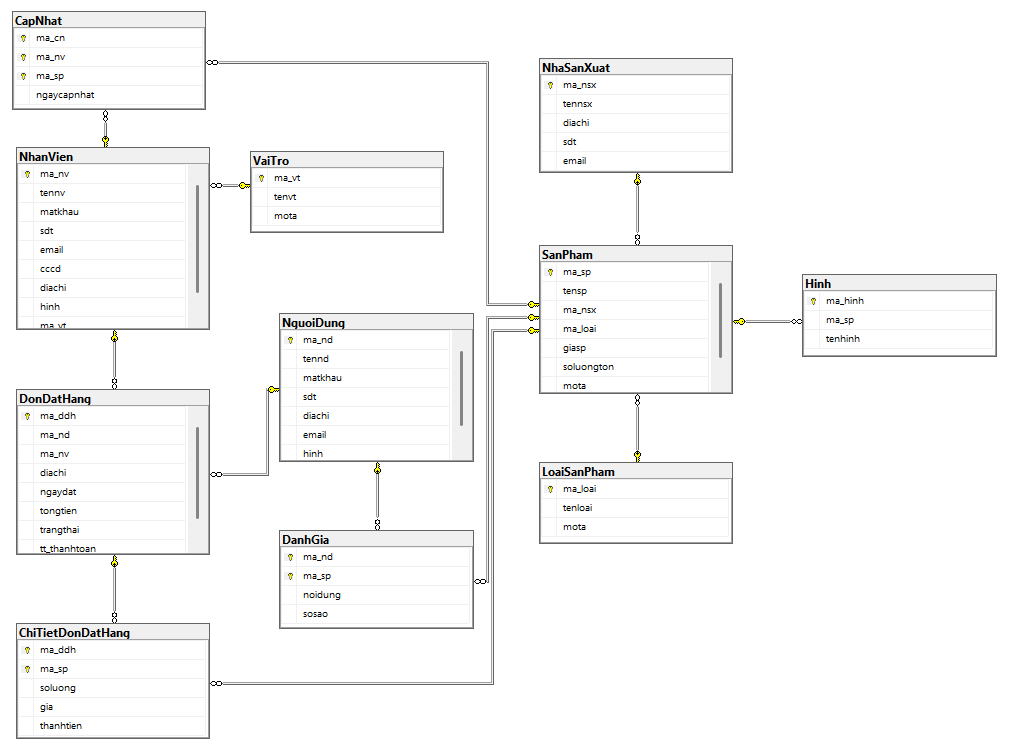
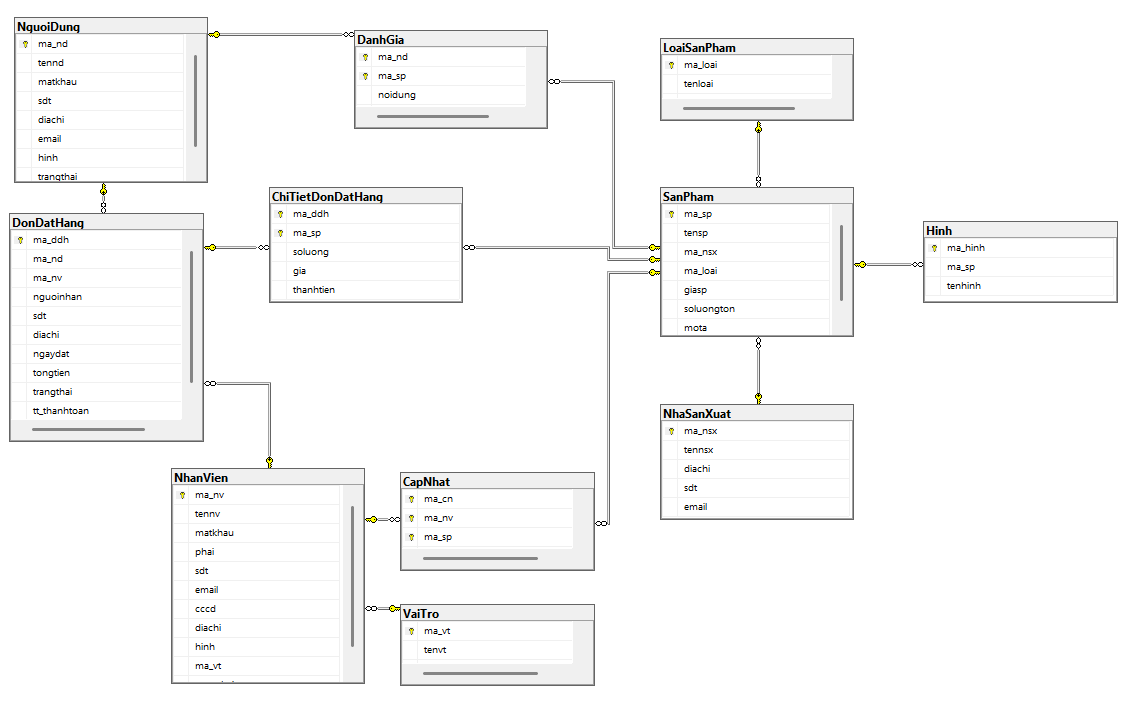
OK-3

diff --git a/WebApp_BanNhacCu/WebApp_BanNhacCu/Models/ZyuukiMusicStoreContext.cs b/WebApp_BanNhacCu/WebApp_BanNhacCu/Models/ZyuukiMusicStoreContext.cs
@@ -33,7 +33,7 @@ namespace WebApp_BanNhacCu.Models
             if (!optionsBuilder.IsConfigured)
             {
 #warning To protect potentially sensitive information in your connection string, you should move it out of source code. You can avoid scaffolding the connection string by using the Name= syntax to read it from configuration - see https://go.microsoft.com/fwlink/?linkid=2131148. For more guidance on storing connection strings, see http://go.microsoft.com/fwlink/?LinkId=723263.
-                optionsBuilder.UseSqlServer("Data Source=skill;Initial Catalog=ZyuukiMusicStore;Integrated Security=True;Encrypt=False");
+                optionsBuilder.UseSqlServer("Data Source=ZYUUKI\\SQLEXPRESS;Initial Catalog=ZyuukiMusicStore;Integrated Security=True;Encrypt=False");
             }
         }
 
@@ -145,7 +145,7 @@ namespace WebApp_BanNhacCu.Models
             modelBuilder.Entity<DonDatHang>(entity =>
             {
                 entity.HasKey(e => e.MaDdh)
-                    .HasName("PK__DonDatHa__057B0B6BFD39DF06");
+                    .HasName("PK__DonDatHa__057B0B6B3495A235");
 
                 entity.ToTable("DonDatHang");
 
@@ -167,6 +167,14 @@ namespace WebApp_BanNhacCu.Models
                     .HasColumnType("datetime")
                     .HasColumnName("ngaydat")
                     .HasDefaultValueSql("(getdate())");
+
+                entity.Property(e => e.Nguoinhan)
+                    .HasMaxLength(100)
+                    .HasColumnName("nguoinhan");
+
+                entity.Property(e => e.Sdt)
+                    .HasMaxLength(15)
+                    .HasColumnName("sdt");
 
                 entity.Property(e => e.Tongtien)
                     .HasColumnType("decimal(18, 2)")
@@ -196,7 +204,7 @@ namespace WebApp_BanNhacCu.Models
             modelBuilder.Entity<Hinh>(entity =>
             {
                 entity.HasKey(e => e.MaHinh)
-                    .HasName("PK__Hinh__78C576F0C8FE0F6A");
+                    .HasName("PK__Hinh__78C576F0AFFAD072");
 
                 entity.ToTable("Hinh");
 
@@ -221,7 +229,7 @@ namespace WebApp_BanNhacCu.Models
             modelBuilder.Entity<LoaiSanPham>(entity =>
             {
                 entity.HasKey(e => e.MaLoai)
-                    .HasName("PK__LoaiSanP__D9476E5766760CDE");
+                    .HasName("PK__LoaiSanP__D9476E57C5D6DC87");
 
                 entity.ToTable("LoaiSanPham");
 
@@ -243,11 +251,11 @@ namespace WebApp_BanNhacCu.Models
             modelBuilder.Entity<NguoiDung>(entity =>
             {
                 entity.HasKey(e => e.MaNd)
-                    .HasName("PK__NguoiDun__0FE15F4E9C582F9C");
+                    .HasName("PK__NguoiDun__0FE15F4E5AE05E3A");
 
                 entity.ToTable("NguoiDung");
 
-                entity.HasIndex(e => e.Email, "UQ__NguoiDun__AB6E616409D928B1")
+                entity.HasIndex(e => e.Email, "UQ__NguoiDun__AB6E6164239E987E")
                     .IsUnique();
 
                 entity.Property(e => e.MaNd).HasColumnName("ma_nd");
@@ -275,12 +283,14 @@ namespace WebApp_BanNhacCu.Models
                 entity.Property(e => e.Tennd)
                     .HasMaxLength(100)
                     .HasColumnName("tennd");
+
+                entity.Property(e => e.Trangthai).HasColumnName("trangthai");
             });
 
             modelBuilder.Entity<NhaSanXuat>(entity =>
             {
                 entity.HasKey(e => e.MaNsx)
-                    .HasName("PK__NhaSanXu__04C16768860F166A");
+                    .HasName("PK__NhaSanXu__04C16768A43D146E");
 
                 entity.ToTable("NhaSanXuat");
 
@@ -310,14 +320,14 @@ namespace WebApp_BanNhacCu.Models
             modelBuilder.Entity<NhanVien>(entity =>
             {
                 entity.HasKey(e => e.MaNv)
-                    .HasName("PK__NhanVien__0FE15F7CAAAFE30E");
+                    .HasName("PK__NhanVien__0FE15F7C7040163F");
 
                 entity.ToTable("NhanVien");
 
-                entity.HasIndex(e => e.Cccd, "UQ__NhanVien__37D42BFABE7781C9")
+                entity.HasIndex(e => e.Cccd, "UQ__NhanVien__37D42BFAFCD5B811")
                     .IsUnique();
 
-                entity.HasIndex(e => e.Email, "UQ__NhanVien__AB6E6164266B234A")
+                entity.HasIndex(e => e.Email, "UQ__NhanVien__AB6E616484534C85")
                     .IsUnique();
 
                 entity.Property(e => e.MaNv)
@@ -354,6 +364,8 @@ namespace WebApp_BanNhacCu.Models
                     .HasMaxLength(255)
                     .HasColumnName("matkhau");
 
+                entity.Property(e => e.Phai).HasColumnName("phai");
+
                 entity.Property(e => e.Sdt)
                     .HasMaxLength(20)
                     .HasColumnName("sdt");
@@ -361,6 +373,8 @@ namespace WebApp_BanNhacCu.Models
                 entity.Property(e => e.Tennv)
                     .HasMaxLength(100)
                     .HasColumnName("tennv");
+
+                entity.Property(e => e.Trangthai).HasColumnName("trangthai");
 
                 entity.HasOne(d => d.MaVtNavigation)
                     .WithMany(p => p.NhanViens)
@@ -371,7 +385,7 @@ namespace WebApp_BanNhacCu.Models
             modelBuilder.Entity<SanPham>(entity =>
             {
                 entity.HasKey(e => e.MaSp)
-                    .HasName("PK__SanPham__0FE0F48891809190");
+                    .HasName("PK__SanPham__0FE0F488618C903C");
 
                 entity.ToTable("SanPham");
 
@@ -423,7 +437,7 @@ namespace WebApp_BanNhacCu.Models
             modelBuilder.Entity<VaiTro>(entity =>
             {
                 entity.HasKey(e => e.MaVt)
-                    .HasName("PK__VaiTro__0FE09C68352EFFFE");
+                    .HasName("PK__VaiTro__0FE09C68D3199292");
 
                 entity.ToTable("VaiTro");
 

diff --git a/WebApp_BanNhacCu/WebApp_BanNhacCu/Areas/Admin/MyModels/CNhanVien.cs b/WebApp_BanNhacCu/WebApp_BanNhacCu/Areas/Admin/MyModels/CNhanVien.cs
@@ -14,6 +14,9 @@ namespace WebApp_BanNhacCu.Areas.Admin.MyModels
         [Display(Name = "Mật khẩu")]
         [Required(ErrorMessage = "Mật khẩu không được để trống!")]
         public string Matkhau { get; set; } = null!;
+        [Display(Name = "Phái")]
+        [Required(ErrorMessage = "Phái không được để trống!")]
+        public bool Phai { get; set; }
         [Display(Name = "Số điện thoại")]
         [Required(ErrorMessage = "Số điện thoại không được để trống!")]
         public string? Sdt { get; set; }
@@ -31,6 +34,8 @@ namespace WebApp_BanNhacCu.Areas.Admin.MyModels
         [Display(Name = "Mã vai trò")]
         [Required(ErrorMessage = "Mã vai trò không được để trống!")]
         public string MaVt { get; set; } = null!;
+        [Display(Name = "Trạng thái")]
+        public bool? Trangthai { get; set; }
 
         public static CNhanVien chuyendoi(NhanVien nv)
         {
@@ -43,12 +48,14 @@ namespace WebApp_BanNhacCu.Areas.Admin.MyModels
                 MaNv = nv.MaNv,
                 Tennv = nv.Tennv,
                 Matkhau = nv.Matkhau,
+                Phai = nv.Phai,
                 Sdt = nv.Sdt,
                 Email = nv.Email,
                 Cccd = nv.Cccd,
                 Diachi = nv.Diachi,
                 Hinh = nv.Hinh,
-                MaVt = nv.MaVt
+                MaVt = nv.MaVt,
+                Trangthai = nv.Trangthai,
             };
         }
 
@@ -63,12 +70,14 @@ namespace WebApp_BanNhacCu.Areas.Admin.MyModels
                 MaNv = nv.MaNv,
                 Tennv = nv.Tennv,
                 Matkhau = nv.Matkhau,
+                Phai = nv.Phai,
                 Sdt = nv.Sdt,
                 Email = nv.Email,
                 Cccd = nv.Cccd,
                 Diachi = nv.Diachi,
                 Hinh = nv.Hinh,
-                MaVt = nv.MaVt
+                MaVt = nv.MaVt,
+                Trangthai = nv.Trangthai
             };
         }
     }

diff --git a/WebApp_BanNhacCu/WebApp_BanNhacCu/Controllers/DonDatHangController.cs b/WebApp_BanNhacCu/WebApp_BanNhacCu/Controllers/DonDatHangController.cs
@@ -193,7 +193,7 @@ namespace WebApp_BanNhacCu.Controllers
             DonDatHang ddh = MySession.Get<DonDatHang>(HttpContext.Session, "tempDdh");
             if (ddh != null)
             {
-                ChiTietDonDatHang ct = null;
+                ChiTietDonDatHang? ct = null;
                 foreach (ChiTietDonDatHang a in ddh.ChiTietDonDatHangs.Where(t => t.MaSp == id))
                 {
                     ct = a; break;
@@ -243,7 +243,8 @@ namespace WebApp_BanNhacCu.Controllers
                     ddh.MaNdNavigation = nd;
                     foreach (ChiTietDonDatHang ct in ddh.ChiTietDonDatHangs)
                     {
-                        ct.MaSpNavigation = db.SanPhams.FirstOrDefault(sp => sp.MaSp == ct.MaSp);
+                        SanPham? sp = db.SanPhams.FirstOrDefault(sp => sp.MaSp == ct.MaSp);
+                        ct.MaSpNavigation = sp ?? new SanPham();
                     }
                     MySession.Set<DonDatHang>(HttpContext.Session, "tempDdh", ddh);
                     return View(ddh);
@@ -313,12 +314,12 @@ namespace WebApp_BanNhacCu.Controllers
                 db.SaveChanges();
                 HttpContext.Session.Remove("tempDdh");
                 TempData["MessageSuccess_ThanhToan"] = "Thanh toán đơn hàng thành công!";
-                return RedirectToAction("lichSuDDH", "TaiKhoan", new { id = nd.MaNd }); //Chuyển đến trang lịch sử đơn hàng của người dùng
+                return RedirectToAction("lichSuDDH", "TaiKhoan", new { id = nd.MaNd });
             }
             catch (Exception)
             {
                 TempData["MessageError_ThanhToan"] = "Thanh toán đơn hàng thất bại!";
-                return RedirectToAction("lichSuDDH", "TaiKhoan"); //Chuyển đến trang lịch sử đơn hàng của người dùng
+                return RedirectToAction("lichSuDDH", "TaiKhoan");
             }
         }
 

diff --git a/WebApp_BanNhacCu/WebApp_BanNhacCu/Areas/Admin/MyModels/CDonDatHang.cs b/WebApp_BanNhacCu/WebApp_BanNhacCu/Areas/Admin/MyModels/CDonDatHang.cs
@@ -13,6 +13,12 @@ namespace WebApp_BanNhacCu.Areas.Admin.MyModels
         [Display(Name = "Mã nhân viên")]
         [Required(ErrorMessage = "Mã nhân viên không được để trống!")]
         public string? MaNv { get; set; }
+        [Display(Name = "Người nhận")]
+        [Required(ErrorMessage = "Người nhận không được để trống!")]
+        public string? Nguoinhan { get; set; }
+        [Display(Name = "Số điện thoại")]
+        [Required(ErrorMessage = "Số điện thoại không được để trống!")]
+        public string? Sdt { get; set; }
         [Display(Name="Địa chỉ nhận")]
         [Required(ErrorMessage = "Địa chỉ nhận không được để trống!")]
         public string Diachi { get; set; } = null!;
@@ -39,6 +45,8 @@ namespace WebApp_BanNhacCu.Areas.Admin.MyModels
                 MaDdh = ddh.MaDdh,
                 MaKh = ddh.MaNd,
                 MaNv = ddh.MaNv,
+                Nguoinhan = ddh.Nguoinhan,
+                Sdt = ddh.Sdt,
                 Diachi = ddh.Diachi,
                 Ngaydat = ddh.Ngaydat,
                 Tongtien = ddh.Tongtien,
@@ -59,6 +67,8 @@ namespace WebApp_BanNhacCu.Areas.Admin.MyModels
                 MaDdh = ddh.MaDdh,
                 MaNd = ddh.MaKh,
                 MaNv = ddh.MaNv,
+                Nguoinhan = ddh.Nguoinhan,
+                Sdt = ddh.Sdt,
                 Diachi = ddh.Diachi,
                 Ngaydat = ddh.Ngaydat,
                 Tongtien = ddh.Tongtien,

diff --git a/WebApp_BanNhacCu/WebApp_BanNhacCu/Models/NguoiDung.cs b/WebApp_BanNhacCu/WebApp_BanNhacCu/Models/NguoiDung.cs
@@ -1,6 +1,5 @@
 using System;
 using System.Collections.Generic;
-using System.ComponentModel.DataAnnotations;
 
 namespace WebApp_BanNhacCu.Models
 {
@@ -11,26 +10,15 @@ namespace WebApp_BanNhacCu.Models
             DanhGia = new HashSet<DanhGia>();
             DonDatHangs = new HashSet<DonDatHang>();
         }
-        [Display(Name = "Mã người dùng")]
+
         public int MaNd { get; set; }
-
-        [Display(Name = "Tên người dùng")]
         public string Tennd { get; set; } = null!;
-
-        [Display(Name = "Mật khẩu")]
         public string Matkhau { get; set; } = null!;
-
-        [Display(Name = "Số điện thoại")]
         public string? Sdt { get; set; }
-
-        [Display(Name = "Địa chỉ")]
         public string? Diachi { get; set; }
-
-        [Display(Name = "Email")]
         public string Email { get; set; } = null!;
-
-        [Display(Name = "Hình đại diện")]
         public string? Hinh { get; set; }
+        public bool? Trangthai { get; set; }
 
         public virtual ICollection<DanhGia> DanhGia { get; set; }
         public virtual ICollection<DonDatHang> DonDatHangs { get; set; }

diff --git a/WebApp_BanNhacCu/WebApp_BanNhacCu/Areas/Admin/MyModels/CNguoiDung.cs b/WebApp_BanNhacCu/WebApp_BanNhacCu/Areas/Admin/MyModels/CNguoiDung.cs
@@ -25,6 +25,8 @@ namespace WebApp_BanNhacCu.Areas.Admin.MyModels
         public string Email { get; set; } = null!;
         [Display(Name = "Avatar")]
         public string? Hinh { get; set; }
+        [Display(Name = "Trạng thái")]
+        public bool? Trangthai { get; set; }
 
 
         public static CNguoiDung chuyendoi(NguoiDung nd)
@@ -39,6 +41,7 @@ namespace WebApp_BanNhacCu.Areas.Admin.MyModels
                 Diachi = nd.Diachi,
                 Email = nd.Email,
                 Hinh = nd.Hinh,
+                Trangthai = nd.Trangthai,
             };
         }
 
@@ -54,6 +57,7 @@ namespace WebApp_BanNhacCu.Areas.Admin.MyModels
                 Diachi = nd.Diachi,
                 Email = nd.Email,
                 Hinh = nd.Hinh,
+                Trangthai = nd.Trangthai,
             };
         }
     }

diff --git a/WebApp_BanNhacCu/WebApp_BanNhacCu/Models/NhanVien.cs b/WebApp_BanNhacCu/WebApp_BanNhacCu/Models/NhanVien.cs
@@ -14,12 +14,14 @@ namespace WebApp_BanNhacCu.Models
         public string MaNv { get; set; } = null!;
         public string Tennv { get; set; } = null!;
         public string Matkhau { get; set; } = null!;
+        public bool Phai { get; set; }
         public string? Sdt { get; set; }
         public string Email { get; set; } = null!;
         public string Cccd { get; set; } = null!;
         public string? Diachi { get; set; }
         public string? Hinh { get; set; }
         public string MaVt { get; set; } = null!;
+        public bool? Trangthai { get; set; }
 
         public virtual VaiTro MaVtNavigation { get; set; } = null!;
         public virtual ICollection<CapNhat> CapNhats { get; set; }

diff --git a/WebApp_BanNhacCu/WebApp_BanNhacCu/Models/DonDatHang.cs b/WebApp_BanNhacCu/WebApp_BanNhacCu/Models/DonDatHang.cs
@@ -13,6 +13,8 @@ namespace WebApp_BanNhacCu.Models
         public int MaDdh { get; set; }
         public int MaNd { get; set; }
         public string? MaNv { get; set; }
+        public string? Nguoinhan { get; set; }
+        public string? Sdt { get; set; }
         public string Diachi { get; set; } = null!;
         public DateTime? Ngaydat { get; set; }
         public decimal? Tongtien { get; set; }

diff --git a/WebApp_BanNhacCu/WebApp_BanNhacCu/Controllers/TaiKhoanController.cs b/WebApp_BanNhacCu/WebApp_BanNhacCu/Controllers/TaiKhoanController.cs
@@ -46,6 +46,7 @@ namespace WebApp_BanNhacCu.Controllers
             }
             else
             {
+                HttpContext.Session.SetString("UserRole", "");
                 HttpContext.Session.SetString("UserEmail", email);
                 HttpContext.Session.SetInt32("UserId", tk.MaNd);
                 HttpContext.Session.SetString("UserName", tk.Tennd);
